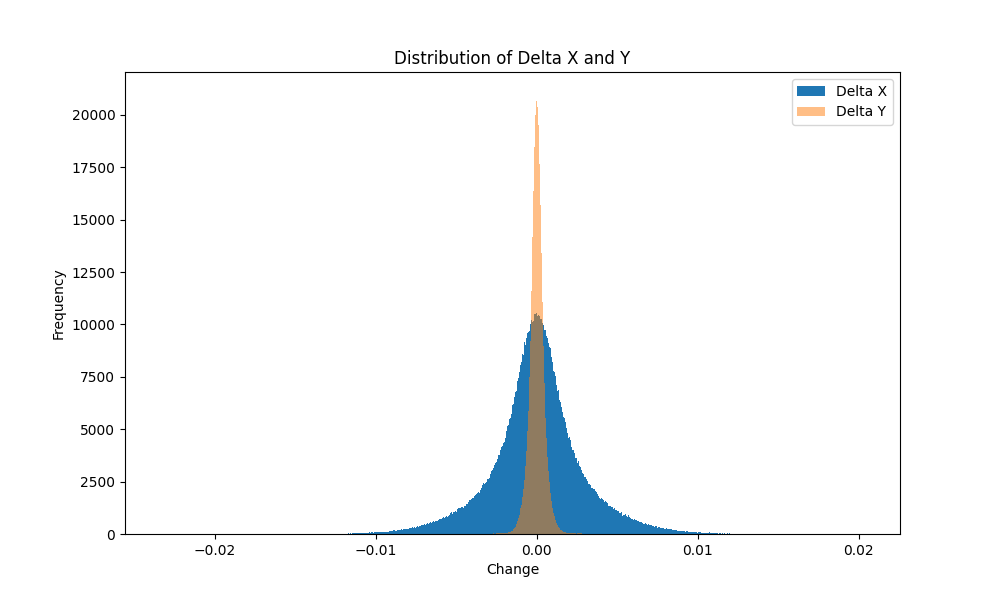
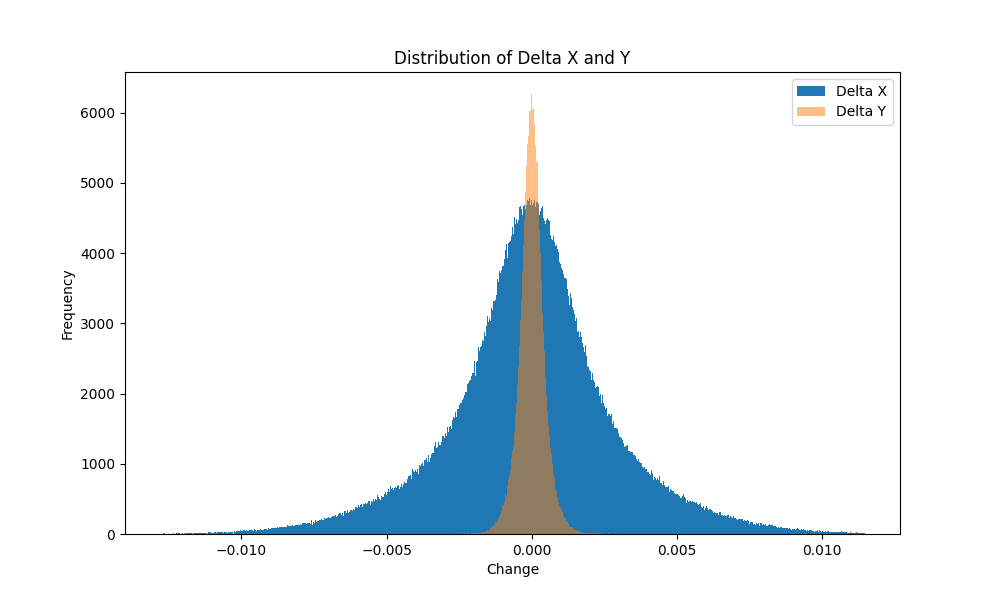
.

diff --git a/main.py b/main.py
@@ -180,7 +180,7 @@ def analyze_data(df):
     plt.title('Frequency Distribution')
     plt.grid(True)
     plt.legend()
-    plt.savefig('frequency_distribution_plot.png')
+    plt.savefig('plot1_frequency_distribution_plot.png')
     plt.show()
 
     # Plot changes over time
@@ -196,8 +196,8 @@ def analyze_data(df):
 
     # Bin the sizes of delta X and Y and plot their distribution
     plt.figure(figsize=(10, 6))
-    plt.hist(df['Delta X [um]'].values, bins=1500, alpha=1, label='Delta X', range=(min_x/8, max_x/8))
-    plt.hist(df['Delta Y [um]'].values, bins=1500, alpha=0.5, label='Delta Y', range=(min_y/8, max_y/8))
+    plt.hist(df['Delta X [um]'].values, bins=1500, alpha=1, label='Delta X', range=(min_x/5, max_x/5))
+    plt.hist(df['Delta Y [um]'].values, bins=1500, alpha=0.5, label='Delta Y', range=(min_y/5, max_y/5))
     plt.xlabel('Change')
     plt.ylabel('Frequency')
     plt.title('Distribution of Delta X and Y')
@@ -223,10 +223,6 @@ def main():
     IFM_zenithal_angles = [102.8495, 102.6638, 103.6139]
 
     # Angles for corrections in gons
-#    delta_angle = 100.3974
-#    omega_angle = 99.6872
-#    ksi_angle = -11.4865
-
     delta_angle = 100.3974
     omega_angle = -99.6872
     ksi_angle = -11.4865
@@ -235,10 +231,10 @@ def main():
     D_value = 173.588
 
     # Value of D in millimeters
- #   max_time = 2500
+    max_time = 2500
 
     # Process interferometer data
-    dfs = process_interferometer_data(IFM_files,IFM_zenithal_angles, D_value, delta_angle, omega_angle, ksi_angle)#, max_time)
+    dfs = process_interferometer_data(IFM_files,IFM_zenithal_angles, D_value, delta_angle, omega_angle, ksi_angle, max_time)
 
     analyze_data(dfs)
 
